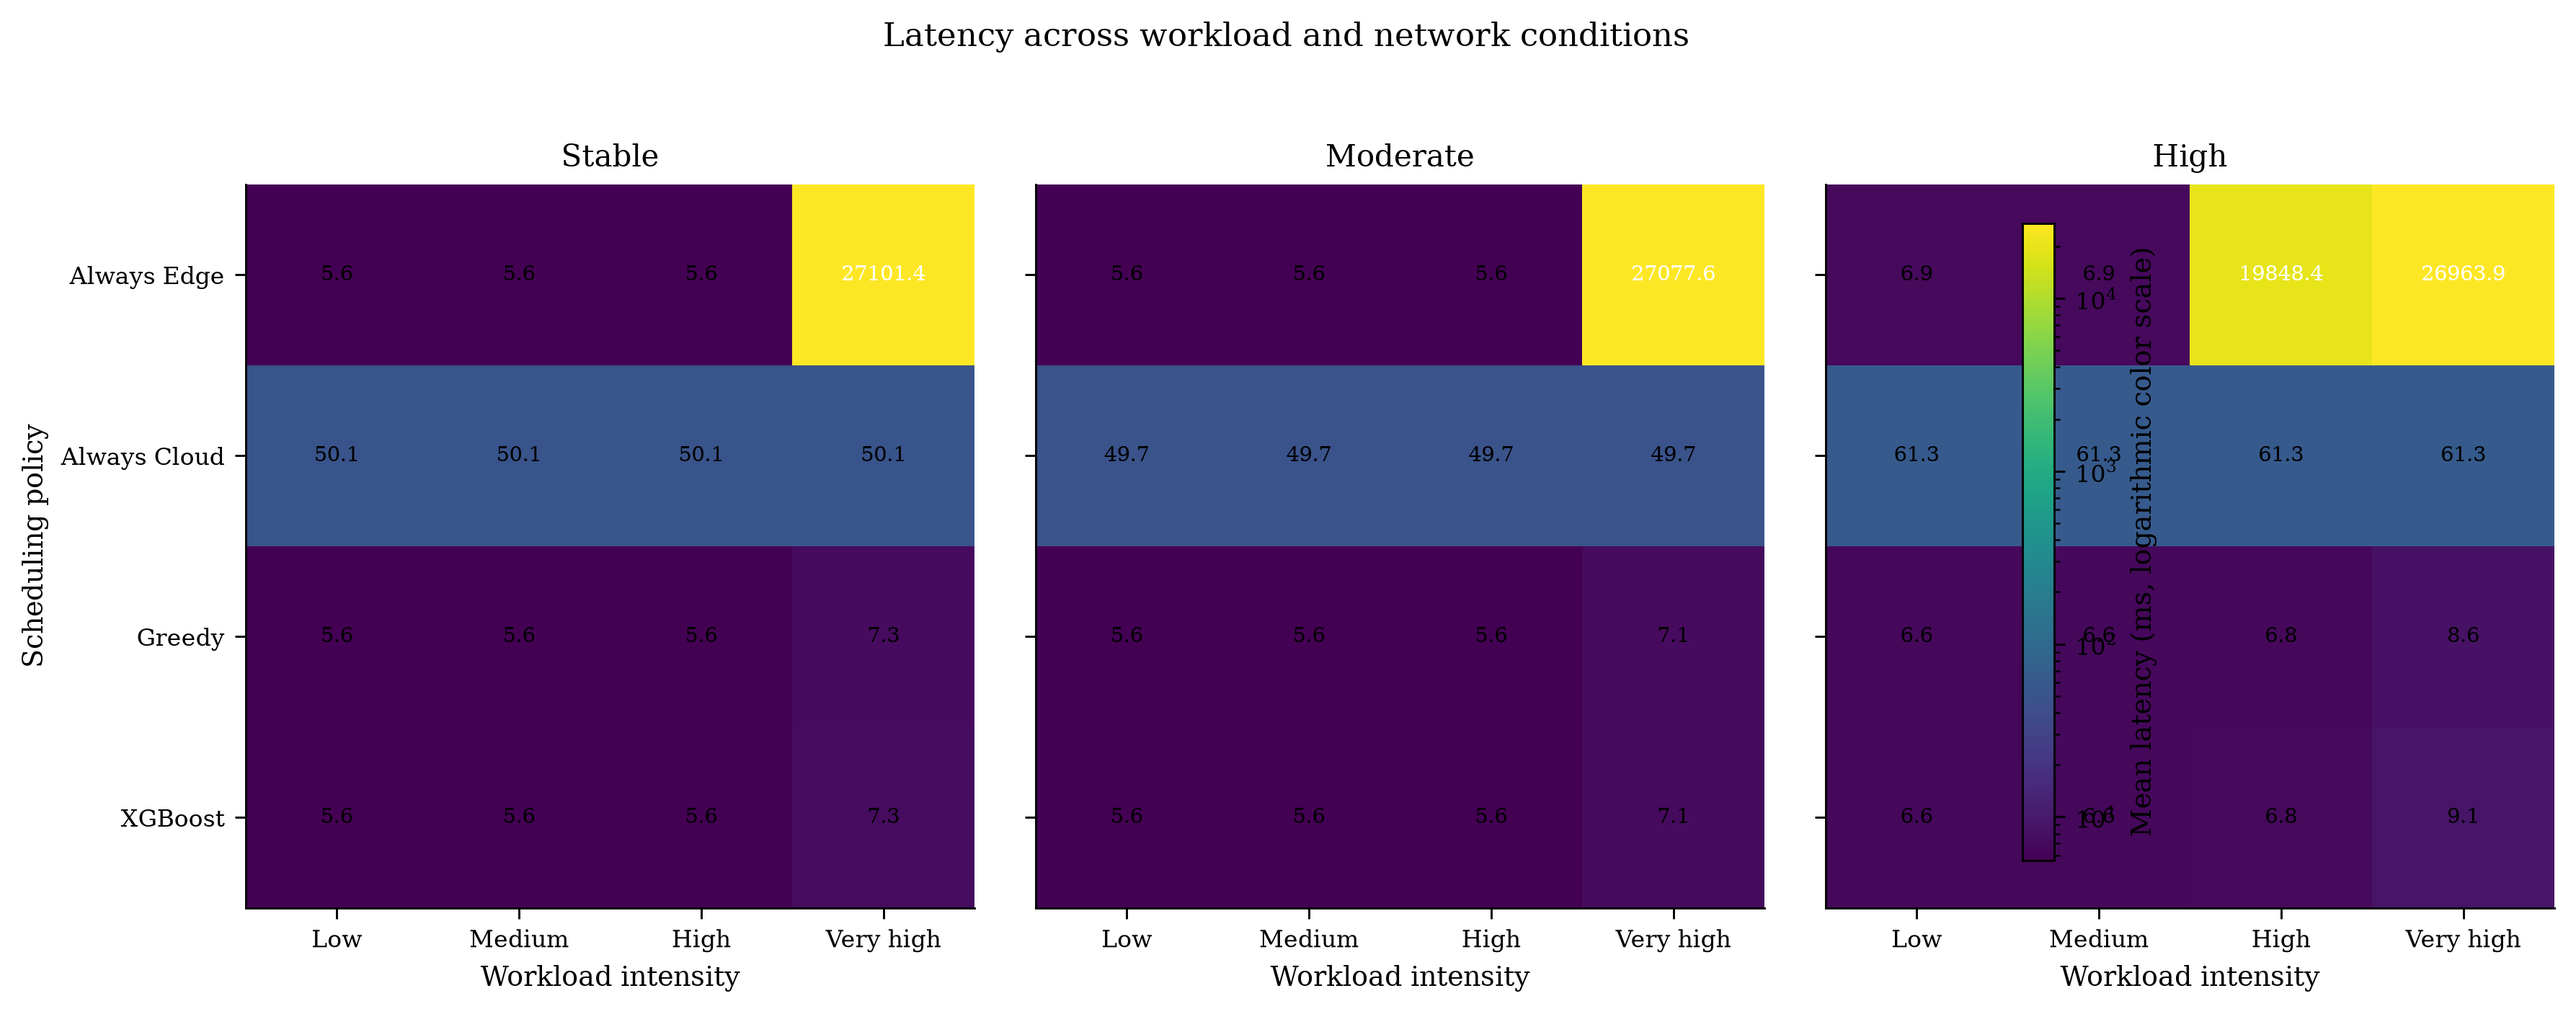
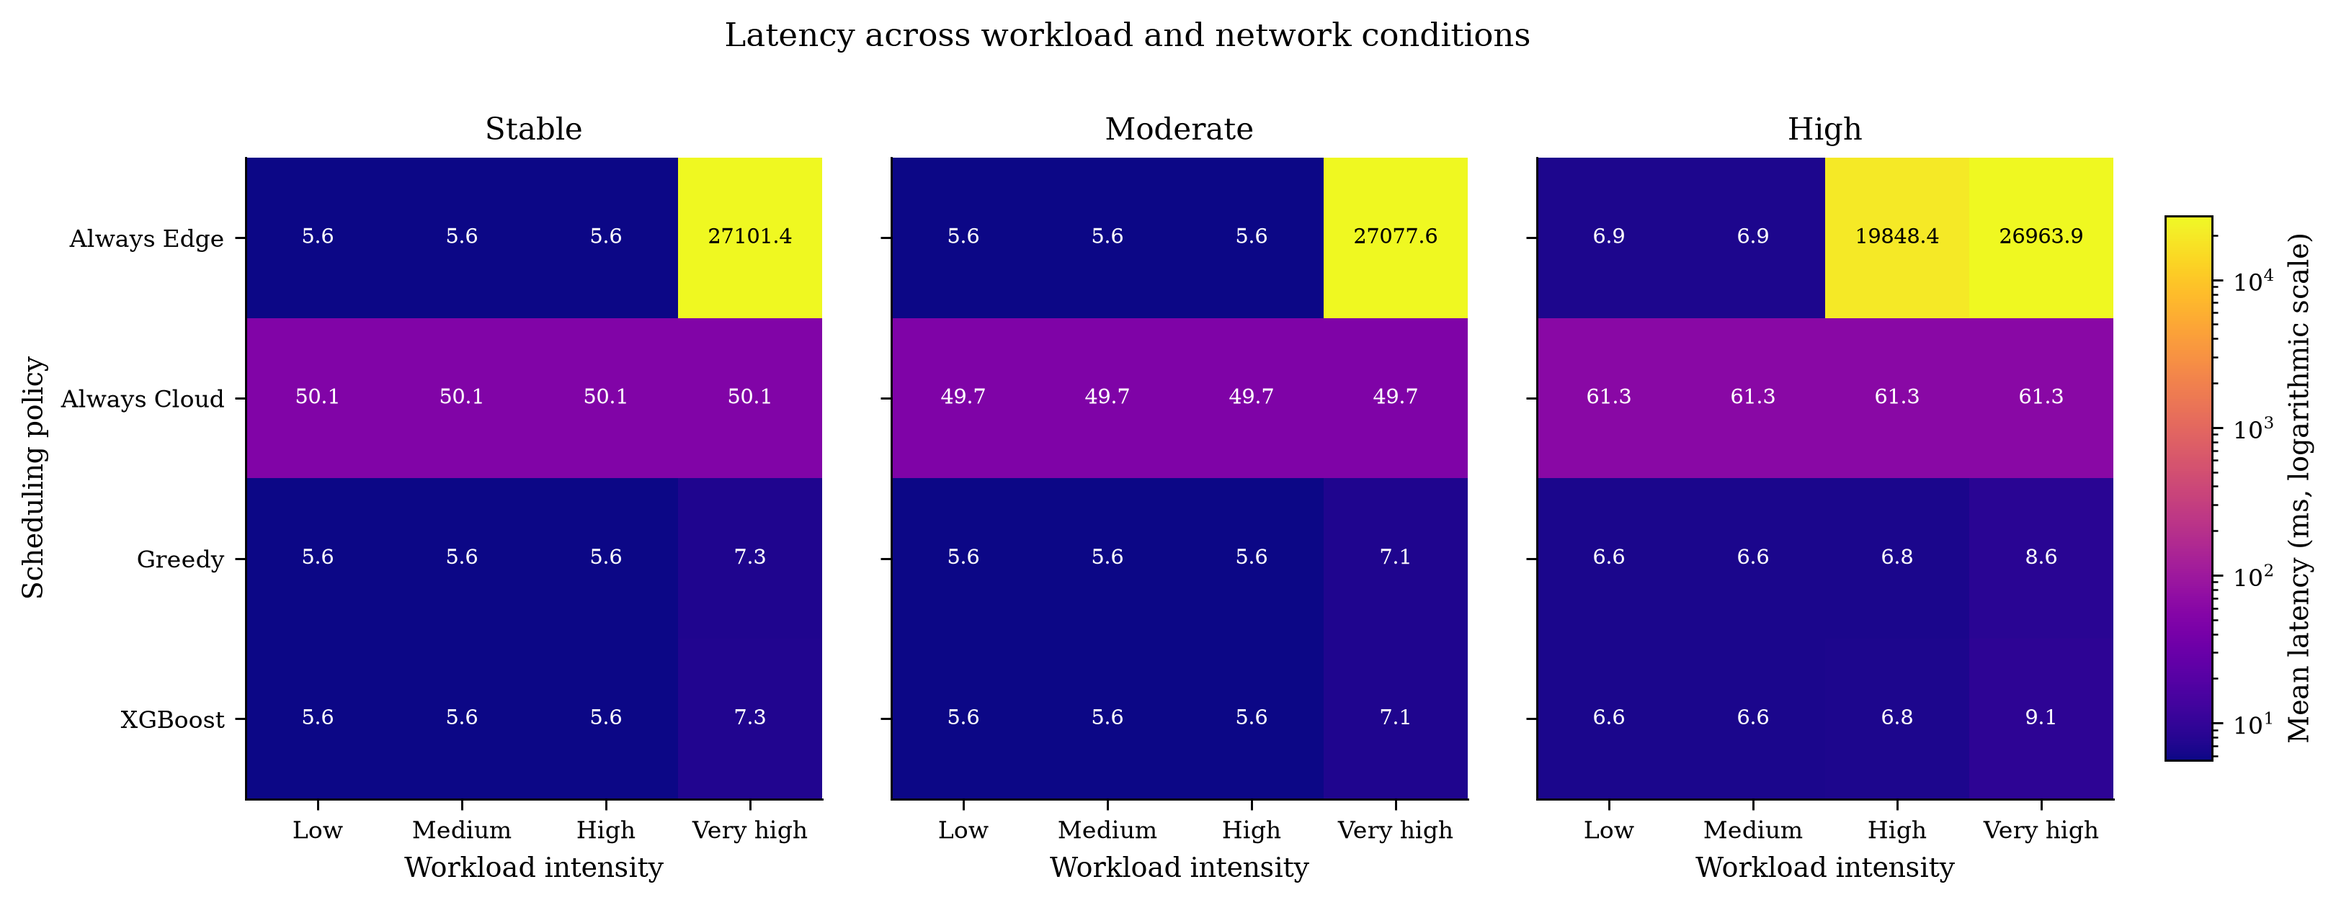
update plots

diff --git a/experiments/plots/plot_results.py b/experiments/plots/plot_results.py
@@ -110,7 +110,7 @@ def plot_latency_heatmap(df):
         image = ax.imshow(
             masked,
             aspect="auto",
-            cmap="viridis",
+            cmap="plasma",
             norm=LogNorm(vmin=vmin, vmax=vmax),
         )
 
@@ -125,7 +125,7 @@ def plot_latency_heatmap(df):
             for j in range(len(LOADS)):
                 value = values[i, j]
                 if np.isfinite(value):
-                    color = "white" if value > np.sqrt(vmin * vmax) else "black"
+                    color = "black" if value > np.sqrt(vmin * vmax) else "white"
                     ax.text(
                         j, i, f"{value:.1f}",
                         ha="center", va="center",
@@ -133,14 +133,27 @@ def plot_latency_heatmap(df):
                     )
 
     axes[0].set_ylabel("Scheduling policy")
-    fig.colorbar(
-        image, ax=axes, label="Mean latency (ms, logarithmic color scale)",
-        shrink=0.85, pad=0.03,
+    fig.subplots_adjust(
+        left=0.16,
+        right=0.88,
+        bottom=0.16,
+        top=0.82,
+        wspace=0.12,
     )
-    fig.suptitle("Latency across workload and network conditions", y=1.03)
-    fig.tight_layout()
-    save_figure(fig, "01_latency_heatmap")
 
+    cbar_ax = fig.add_axes([0.90, 0.20, 0.018, 0.56])
+    fig.colorbar(
+        image,
+        cax=cbar_ax,
+        label="Mean latency (ms, logarithmic scale)",
+    )
+
+    fig.suptitle(
+        "Latency across workload and network conditions",
+        y=0.96,
+    )
+
+    save_figure(fig, "01_latency_heatmap")
 
 def plot_xgboost_improvement(df):
     """Positive values indicate lower latency with XGBoost than Greedy."""
@@ -194,39 +207,46 @@ def plot_xgboost_improvement(df):
 
 
 def plot_latency_cost_tradeoff(df):
-    """Lower-left points indicate lower latency and lower cost."""
     fig, axes = plt.subplots(
-        1, 3, figsize=(11, 3.8), sharey=True
+        1, 3, figsize=(12, 4), sharey=True
     )
 
     for ax, condition in zip(axes, CONDITIONS):
         subset = df[df["network_condition"] == condition]
 
         for policy in POLICIES:
-            part = subset[subset["policy"] == policy]
+            part = (
+                subset[subset["policy"] == policy]
+                .set_index("load_level")
+                .reindex(LOADS)
+            )
 
-            ax.scatter(
+            # Connect workload levels to show the progression.
+            ax.plot(
                 part["cost_mean"],
                 part["latency_mean"],
                 color=STYLE[policy]["color"],
-                marker=STYLE[policy]["marker"],
-                s=45,
-                alpha=0.9,
-                label=policy,
-                edgecolors="white",
-                linewidths=0.4,
+                linewidth=1,
+                alpha=0.65,
+                zorder=2,
             )
 
-            for _, row in part.iterrows():
-                if pd.notna(row["cost_mean"]) and pd.notna(row["latency_mean"]):
-                    load = LOAD_LABELS[LOADS.index(row["load_level"])]
-                    ax.annotate(
-                        load,
-                        (row["cost_mean"], row["latency_mean"]),
-                        xytext=(3, 3),
-                        textcoords="offset points",
-                        fontsize=6.5,
-                    )
+            for i, load in enumerate(LOADS):
+                row = part.loc[load]
+
+                if pd.isna(row["cost_mean"]) or pd.isna(row["latency_mean"]):
+                    continue
+
+                ax.scatter(
+                    row["cost_mean"],
+                    row["latency_mean"],
+                    color=STYLE[policy]["color"],
+                    marker=STYLE[policy]["marker"],
+                    s=65,
+                    edgecolors="white",
+                    linewidths=0.8,
+                    zorder=3,
+                )
 
         ax.set_yscale("log")
         ax.set_title(condition.title())
@@ -235,14 +255,31 @@ def plot_latency_cost_tradeoff(df):
         ax.set_axisbelow(True)
 
     axes[0].set_ylabel("Mean latency (ms, log scale)")
-    handles, labels = axes[0].get_legend_handles_labels()
+
+    handles = [
+        plt.Line2D(
+            [0], [0],
+            color=STYLE[p]["color"],
+            marker=STYLE[p]["marker"],
+            linewidth=1.5,
+            markersize=6,
+            label=p,
+        )
+        for p in POLICIES
+    ]
+
     fig.legend(
-        handles, labels, loc="upper center",
-        bbox_to_anchor=(0.5, 1.06), ncol=4, frameon=False,
+        handles=handles,
+        loc="upper center",
+        bbox_to_anchor=(0.5, 1.0),
+        ncol=4,
+        frameon=False,
     )
-    fig.suptitle("Latency–cost trade-off across policies and workloads", y=1.14)
+
+    fig.suptitle("Latency–cost trade-off across policies", y=1.08)
     fig.tight_layout()
     save_figure(fig, "03_latency_cost_tradeoff")
+
 
 
 def plot_latency_degradation(df):
@@ -299,10 +336,16 @@ def plot_latency_degradation(df):
 
 
 def plot_deadline_latency_tradeoff(df):
-    """Each point represents one policy and workload combination."""
     fig, axes = plt.subplots(
-        1, 3, figsize=(11, 3.8), sharey=True
+        1, 3, figsize=(12, 4), sharey=True
     )
+
+    load_markers = {
+        "low_load": "o",
+        "medium_load": "s",
+        "high_load": "^",
+        "very_high_load": "D",
+    }
 
     for ax, condition in zip(axes, CONDITIONS):
         subset = df[df["network_condition"] == condition]
@@ -310,27 +353,24 @@ def plot_deadline_latency_tradeoff(df):
         for policy in POLICIES:
             part = subset[subset["policy"] == policy]
 
-            x = part["latency_mean"]
-            y = 100 * part["violations_mean"]
+            for _, row in part.iterrows():
+                latency = row["latency_mean"]
+                violations = row["violations_mean"] * 100
 
-            ax.scatter(
-                x, y,
-                color=STYLE[policy]["color"],
-                marker=STYLE[policy]["marker"],
-                s=45,
-                label=policy,
-                edgecolors="white",
-                linewidths=0.4,
-            )
+                if pd.isna(latency) or pd.isna(violations) or latency <= 0:
+                    continue
 
-            for (_, row), latency, violation in zip(part.iterrows(), x, y):
-                if pd.notna(latency) and pd.notna(violation):
-                    load = LOAD_LABELS[LOADS.index(row["load_level"])]
-                    ax.annotate(
-                        load, (latency, violation),
-                        xytext=(3, 3), textcoords="offset points",
-                        fontsize=6.5,
-                    )
+                ax.scatter(
+                    latency,
+                    violations,
+                    color=STYLE[policy]["color"],
+                    marker=load_markers[row["load_level"]],
+                    s=65,
+                    edgecolors="white",
+                    linewidths=0.8,
+                    alpha=0.9,
+                    zorder=3,
+                )
 
         ax.set_xscale("log")
         ax.set_title(condition.title())
@@ -339,12 +379,49 @@ def plot_deadline_latency_tradeoff(df):
         ax.set_axisbelow(True)
 
     axes[0].set_ylabel("Deadline violations (%)")
-    handles, labels = axes[0].get_legend_handles_labels()
+
+    policy_handles = [
+        plt.Line2D(
+            [0], [0],
+            color=STYLE[p]["color"],
+            marker="o",
+            linestyle="None",
+            markersize=6,
+            label=p,
+        )
+        for p in POLICIES
+    ]
+
+    load_handles = [
+        plt.Line2D(
+            [0], [0],
+            color="0.35",
+            marker=load_markers[load],
+            linestyle="None",
+            markersize=6,
+            label=label,
+        )
+        for load, label in zip(LOADS, LOAD_LABELS)
+    ]
+
     fig.legend(
-        handles, labels, loc="upper center",
-        bbox_to_anchor=(0.5, 1.06), ncol=4, frameon=False,
+        handles=policy_handles,
+        loc="upper center",
+        bbox_to_anchor=(0.5, 1.04),
+        ncol=4,
+        frameon=False,
     )
-    fig.suptitle("Deadline reliability versus latency", y=1.14)
+
+    fig.legend(
+        handles=load_handles,
+        loc="lower center",
+        bbox_to_anchor=(0.5, -0.04),
+        ncol=4,
+        frameon=False,
+        title="Workload",
+    )
+
+    fig.suptitle("Deadline violations versus latency", y=1.12)
     fig.tight_layout()
     save_figure(fig, "05_deadline_latency_tradeoff")
 
